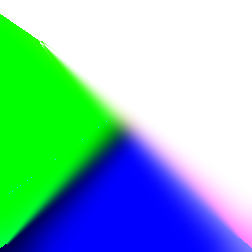
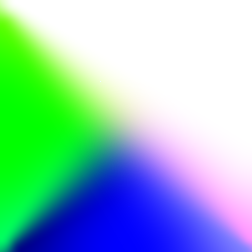
done cali and pro without rotate 180

diff --git a/run_calibrate_camera.py b/run_calibrate_camera.py
@@ -12,7 +12,7 @@ Usage:
         --resolution 640x480
         --fisheye
 Example: 
-                                                                /bin/python3 run_calibrate_camera.py -i 44 -grid 9x6 -o front.yaml -framestep 20 --resolution 960x640 --fisheye
+    /bin/python3 run_calibrate_camera.py -i 44 -grid 9x6 -o front.yaml -framestep 20 --resolution 960x640 --fisheye
 """
 import argparse
 import os

diff --git a/run_get_projection_maps.py b/run_get_projection_maps.py
@@ -20,7 +20,7 @@ def get_projection_map(camera_model, image):
     name = camera_model.camera_name
 
     # Rotate the frames from video53 and video62 by 180 degrees
-    und_image = cv2.rotate(und_image, cv2.ROTATE_180)
+    # und_image = cv2.rotate(und_image, cv2.ROTATE_180)
     gui = PointSelector(und_image, title=name)
     dst_points = settings.project_keypoints[name]
     choice = gui.loop()

diff --git a/run_get_weight_matrices.py b/run_get_weight_matrices.py
@@ -18,7 +18,7 @@ def main():
         img = cv2.imread(image_file)
         img = camera.undistort(img)
 
-        img = cv2.rotate(img, cv2.ROTATE_180)
+        # img = cv2.rotate(img, cv2.ROTATE_180)
         img = camera.project(img)
         img = camera.flip(img)
         display_image("Mid Result", img)
